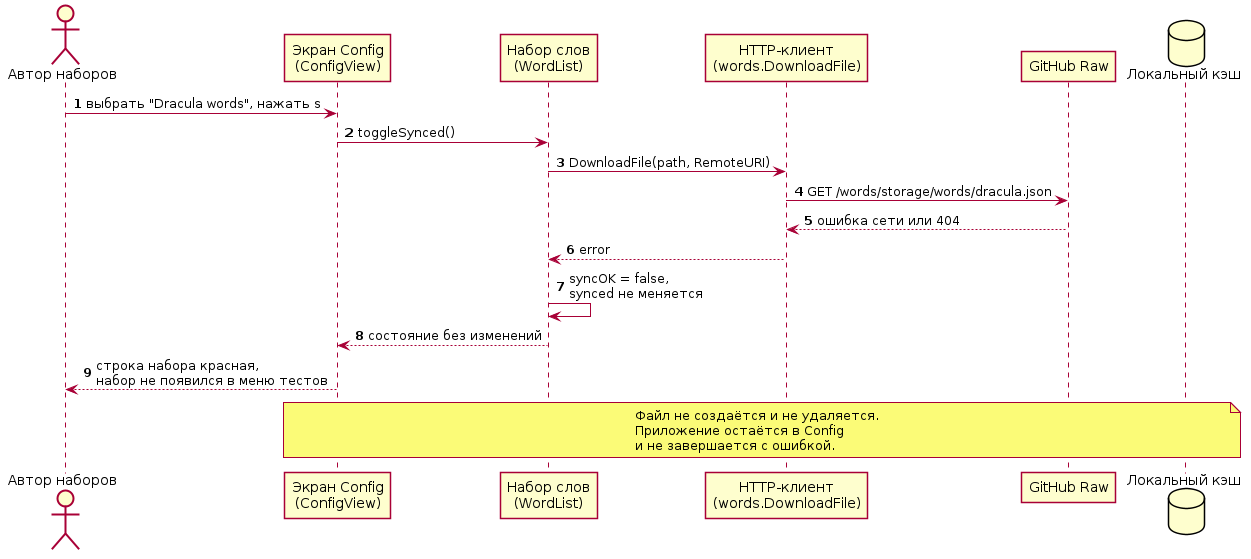
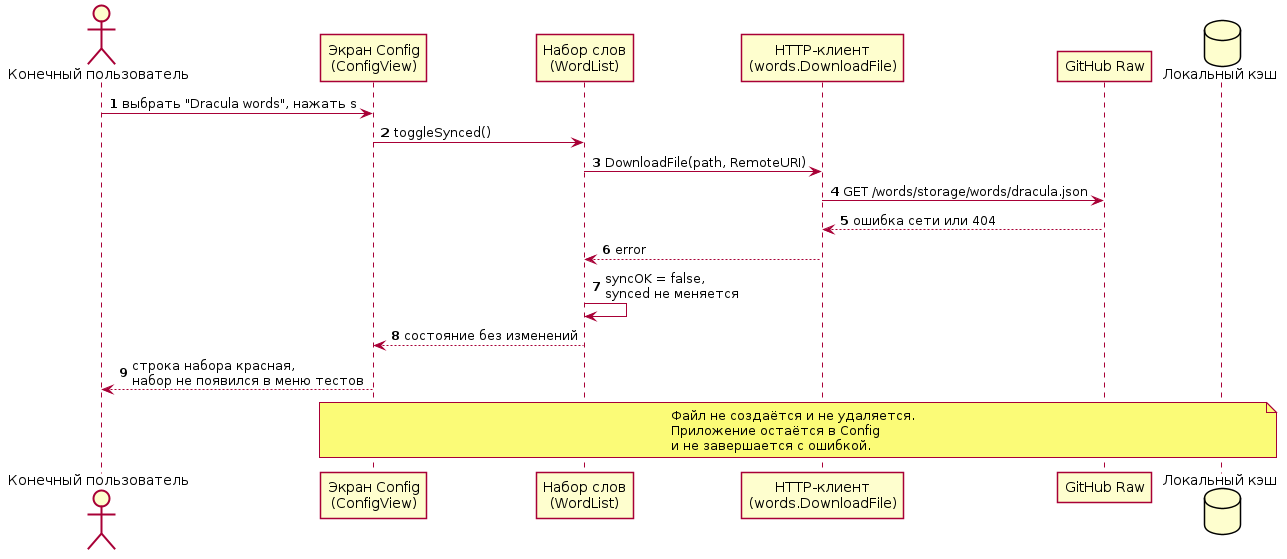
feat(lab2) diagrams done

diff --git a/src/cmd/update.go b/src/cmd/update.go
@@ -30,7 +30,6 @@ func (m model) Update(msg tea.Msg) (tea.Model, tea.Cmd) {
 
 		// Cool, what was the actual key pressed?
 		switch msg.String() {
-
 		// These keys should exit the program.
 		case "ctrl+c", "esc":
 			return m, tea.Quit
@@ -78,7 +77,7 @@ func (m model) Update(msg tea.Msg) (tea.Model, tea.Cmd) {
 				termenv.DefaultOutput().Reset()
 				state.timer.timedout = true
 
-				var results = state.calculateResults()
+				results := state.calculateResults()
 
 				PersistResults(results)
 
@@ -183,7 +182,6 @@ func (m model) Update(msg tea.Msg) (tea.Model, tea.Cmd) {
 					}
 					handleRunes(msg, &state.base, state.mainMenu.config.Layout.Mappings)
 					m.state = state
-
 				}
 			}
 		}
@@ -192,7 +190,7 @@ func (m model) Update(msg tea.Msg) (tea.Model, tea.Cmd) {
 		if len(state.base.wordsToEnter) == len(state.base.inputBuffer) {
 			termenv.DefaultOutput().Reset()
 
-			var results = state.calculateResults()
+			results := state.calculateResults()
 
 			PersistResults(results)
 
@@ -268,7 +266,7 @@ func (m model) Update(msg tea.Msg) (tea.Model, tea.Cmd) {
 		if len(state.base.wordsToEnter) == len(state.base.inputBuffer) {
 			termenv.DefaultOutput().Reset()
 
-			var results = state.calculateResults()
+			results := state.calculateResults()
 
 			PersistResults(results)
 
@@ -529,7 +527,6 @@ func (settings SentenceCountBasedTestSettings) handleInput(msg tea.Msg, menu Mai
 }
 
 func (configView ConfigView) handleInput(msg tea.Msg, state State) State {
-
 	embedWordListSectionEnd := len(configView.config.EmbededWordLists)
 	wordListSectionEnd := embedWordListSectionEnd + len(configView.config.WordLists)
 	layoutSectionEnd := wordListSectionEnd + len(configView.config.LayoutFiles)
@@ -685,7 +682,7 @@ func (results SentenceCountTestResults) handleInput(msg tea.Msg, state State) St
 func handleBackspace(base *TestBase) {
 	base.inputBuffer = dropLastRune(base.inputBuffer)
 
-	//Delete mistakes
+	// Delete mistakes
 	inputLength := len(base.inputBuffer)
 	_, ok := base.mistakes.mistakesAt[inputLength]
 	if ok {
@@ -700,7 +697,7 @@ func handleCtrlW(base *TestBase) {
 	bufferLen := len(base.inputBuffer)
 	base.cursor = bufferLen
 
-	//Delete mistakes
+	// Delete mistakes
 	var newMistakes map[int]bool = make(map[int]bool, 0)
 	for at := range base.mistakes.mistakesAt {
 		if at < bufferLen {

diff --git a/src/cmd/view.go b/src/cmd/view.go
@@ -14,15 +14,17 @@ import (
 	"github.com/muesli/reflow/wordwrap"
 )
 
-var lineLenLimit int
-var minLineLen int = 5
-var maxLineLen int = 40
-var resultsStyle = lipgloss.NewStyle().
-	Align(lipgloss.Center).
-	PaddingTop(1).
-	PaddingBottom(1).
-	PaddingLeft(5).
-	PaddingRight(5)
+var (
+	lineLenLimit int
+	minLineLen   int = 5
+	maxLineLen   int = 40
+	resultsStyle     = lipgloss.NewStyle().
+			Align(lipgloss.Center).
+			PaddingTop(1).
+			PaddingBottom(1).
+			PaddingLeft(5).
+			PaddingRight(5)
+)
 
 func wrapWithCursor(shouldWrap bool, line string, stringStyle StringStyle) string {
 	cursor := " "
@@ -381,16 +383,10 @@ func plotWpms(wpms []float64, width int) string {
 	return lipgloss.NewStyle().Padding(1).Render(wpmGraph)
 }
 
-func averageLineLenFast(lines []string) int {
-	linesLen := len(lines)
-	linesToConsider := int(math.Min(float64(linesLen), 3))
-	return averageStringLen(lines[:linesToConsider])
-}
-
 func averageLineLen(lines []string) int {
 	linesLen := len(lines)
 	if linesLen > 1 {
-		lines = lines[:linesLen-1] //Drop last line, as it might skew up average length
+		lines = lines[:linesLen-1] // Drop last line, as it might skew up average length
 	}
 
 	return averageStringLen(lines)
@@ -496,9 +492,7 @@ func (base *TestBase) colorInput(styles Styles) string {
 	var coloredInput strings.Builder
 
 	if len(mistakes) == 0 {
-
 		coloredInput.WriteString(styleAllRunes(base.inputBuffer, styles.correct))
-
 	} else {
 
 		previousMistake := -1

diff --git a/src/cmd/util.go b/src/cmd/util.go
@@ -47,15 +47,6 @@ func floor(value int) int32 {
 	return int32(math.Max(0, float64(value)))
 }
 
-func dropLastString(strings []string) []string {
-	le := len(strings)
-	if le != 0 {
-		return strings[:le-1]
-	} else {
-		return strings
-	}
-}
-
 func dropLastRune(runes []rune) []rune {
 	le := len(runes)
 	if le != 0 {
@@ -71,11 +62,4 @@ func toKeysSlice(mp map[int]bool) []int {
 		acc = append(acc, key)
 	}
 	return acc
-}
-
-func reverse(runes []rune) []rune {
-	for i, j := 0, len(runes)-1; i < j; i, j = i+1, j-1 {
-		runes[i], runes[j] = runes[j], runes[i]
-	}
-	return runes
 }

diff --git a/docs/01-requirements.md b/docs/01-requirements.md
@@ -16,7 +16,7 @@ CPM, точность и график по секундам.
 | Роль | Что делает |
 | --- | --- |
 | Конечный пользователь | Проходит тесты, выбирает наборы и раскладку, смотрит результаты |
-| Автор наборов слов | Подключает свои списки через TOML, включает и синхронизирует наборы |
+| Автор наборов слов | Подключает свои списки через TOML |
 | Администратор инсталляции | Запускает `typioca serve` и настраивает SSH-доступ |
 
 **Что уже умеет приложение:** тесты на время, по количеству слов и по количеству
@@ -81,8 +81,9 @@ CPM, точность и график по секундам.
 
 ### FR-7. Управление наборами и раскладками
 
-Автор наборов слов может включать, отключать, скачивать и удалять наборы
-и раскладки, а также подключать собственный список через TOML-конфигурацию.
+Конечный пользователь может включать, отключать, скачивать и удалять наборы
+и раскладки на экране `Config`. Автор наборов слов может подключить собственный
+список или раскладку через TOML-конфигурацию.
 Приоритет: обязательно. Состояние: уже есть.
 Признак выполнения: изменения сохраняются в конфигурации и переживают перезапуск;
 ошибка загрузки не удаляет уже существующий файл.
@@ -191,7 +192,7 @@ raw WPM 50; приложение не блокирует ввод и не зав
 
 ### US-7. Синхронизация набора (FR-7)
 
-- **Роль:** автор наборов слов.
+- **Роль:** конечный пользователь.
 - **Вход:** экран `Config`, набор `Dracula words` не синхронизирован, сеть доступна.
 - **Шаги:** выбрать `Dracula words` → нажать `s` → дождаться загрузки.
 - **Выход:** файл `dracula.json` появляется в кэше, отметка `synced` становится
@@ -253,6 +254,7 @@ raw WPM 50; приложение не блокирует ввод и не зав
 | Последовательность, ошибка | [puml](diagrams/sequence-sync-error.puml), [png](diagrams/sequence-sync-error.png) | Ошибка синхронизации набора | US-7, FR-7 |
 | Классы / данные | [puml](diagrams/class-model.puml), [png](diagrams/class-model.png) | Пять сущностей предметной области | FR-1…FR-7 |
 | Состояния | [puml](diagrams/state-test-session.puml), [png](diagrams/state-test-session.png) | Жизненный цикл сеанса теста | US-1…US-3, FR-1…FR-3 |
+| Карта кода | [puml](diagrams/code-map.puml), [png](diagrams/code-map.png) | Файлы, функции и потоки данных для разработчика | весь код |
 
 Диаграмма состояний построена для сеанса теста: у него есть явный жизненный цикл
 от главного меню до результатов, поэтому отдельный объект «заявка» не требуется.

diff --git a/README.md b/README.md
@@ -64,6 +64,8 @@ git push origin master
 - [`docs/00-project.md`](docs/00-project.md) — паспорт проекта.
 - [`docs/01-requirements.md`](docs/01-requirements.md) — требования и модели.
 - [`docs/diagrams/`](docs/diagrams/) — исходники и PNG диаграмм.
+- [`docs/diagrams/code-map.png`](docs/diagrams/code-map.png) — карта кода для разработчика.
+- [`docs/demo-1min.md`](docs/demo-1min.md) — сценарий демо на одну минуту.
 
 ## Лицензия
 
